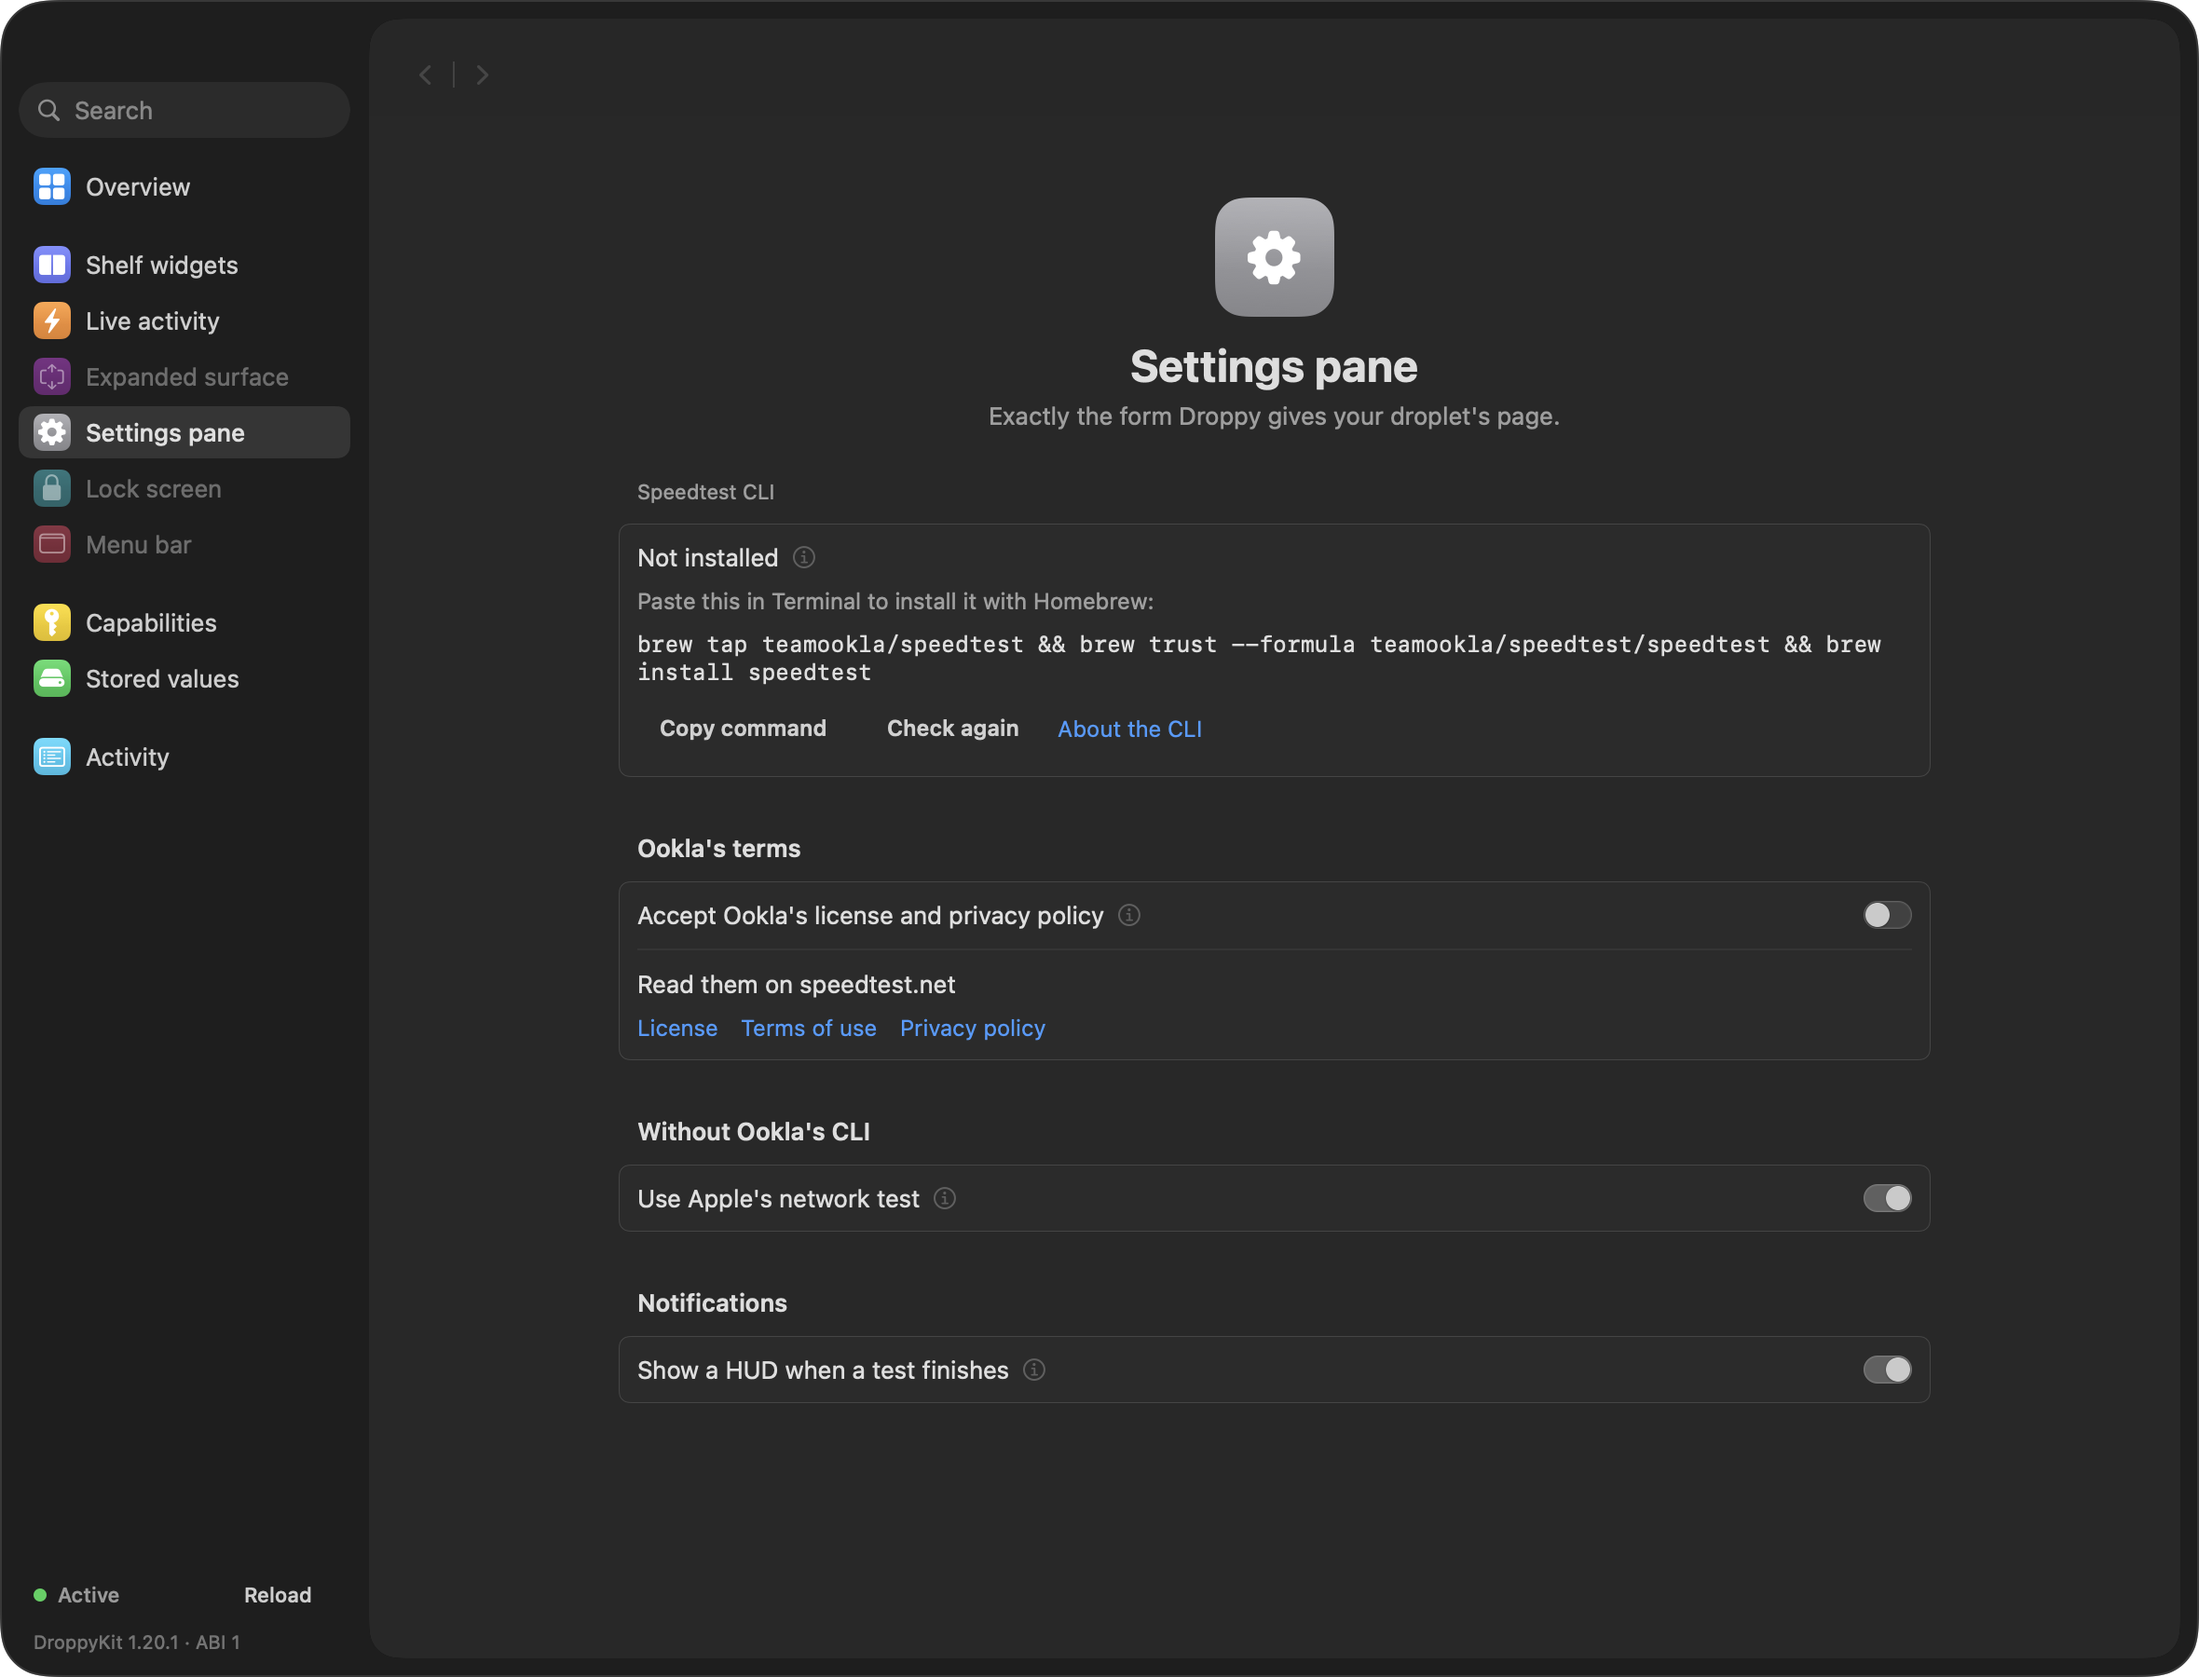
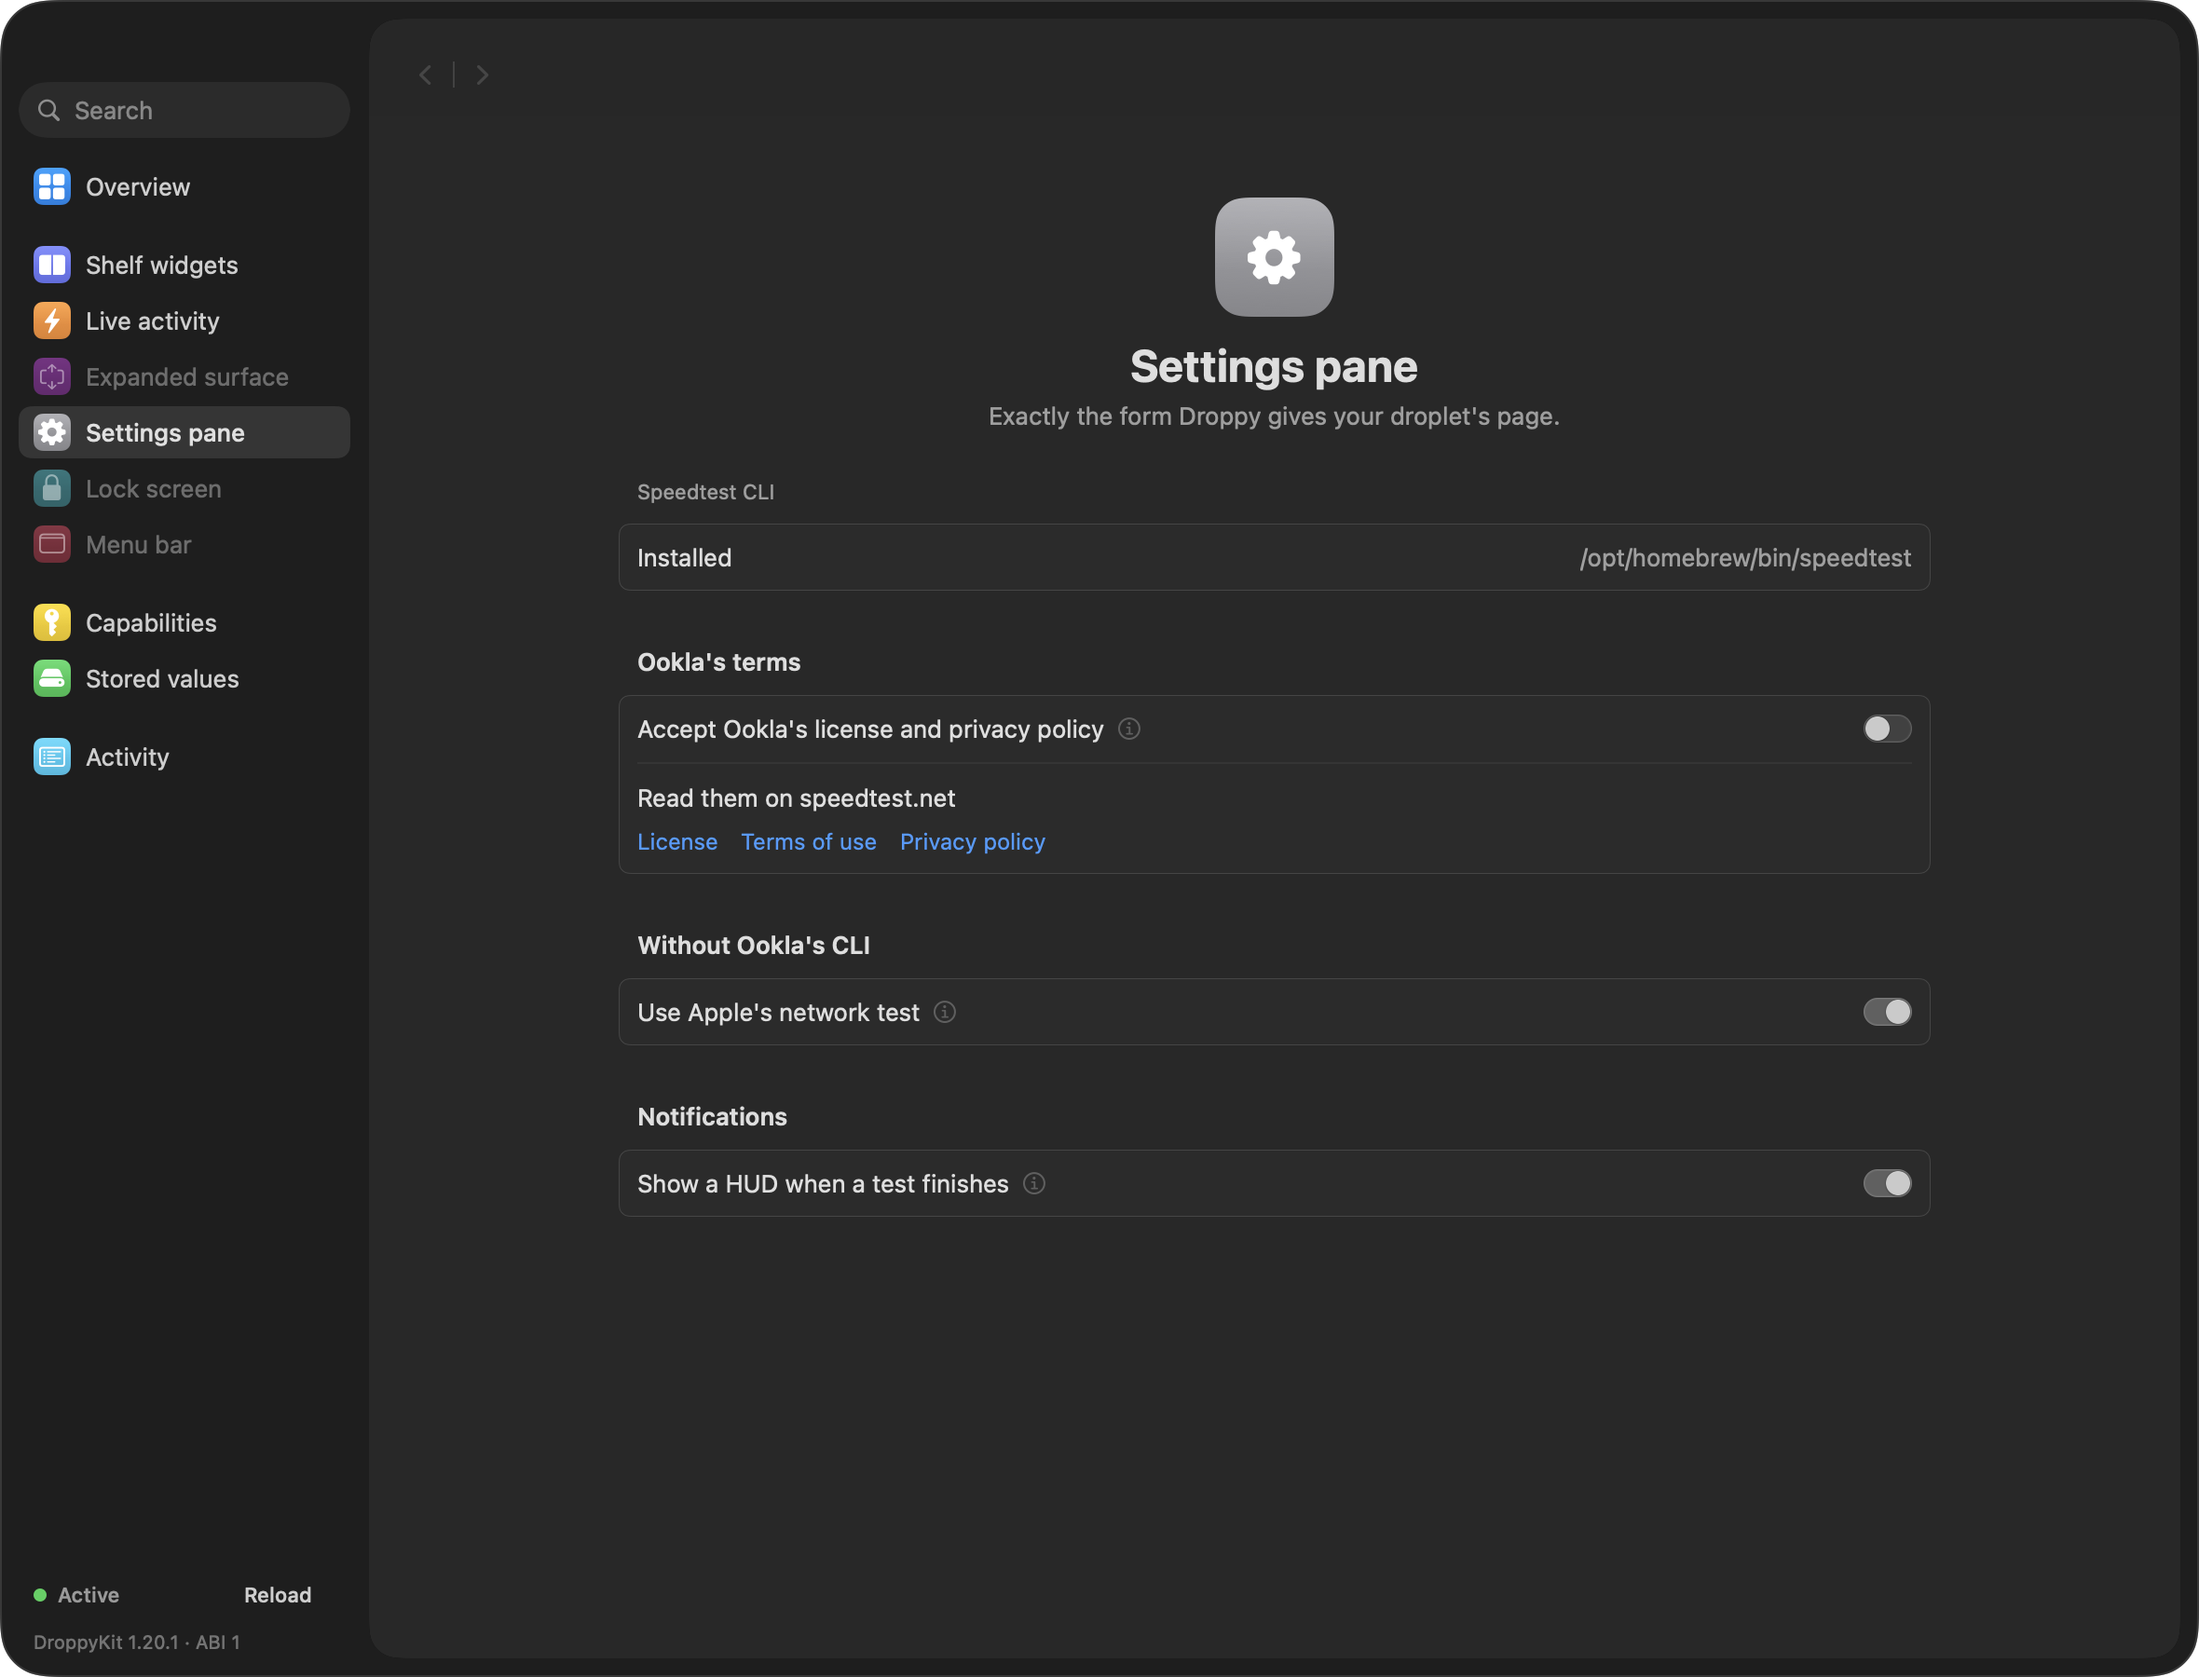
Speedtest: notice a newly installed CLI when the user presses Start
The CLI was only looked up on activation and from 'Check again' in the
settings pane, so after following the widget's setup hint Start kept
running Apple's test until Droppy restarted. Start now re-checks the
usual install paths first; the login-shell lookup stays on activation.

diff --git a/droplets/speedtest/Sources/Speedtest/SpeedtestRunner.swift b/droplets/speedtest/Sources/Speedtest/SpeedtestRunner.swift
@@ -53,8 +53,16 @@ public final class SpeedtestRunner: ObservableObject {
         }
     }
 
-    /// Blocking; call it off the main actor.
-    nonisolated static func locateBinary() -> String? {
+    /// Picks up a CLI installed since the last look, so a user who follows
+    /// the setup hint gets Ookla's test from Start without "Check again".
+    /// Only the usual install paths: cheap enough to run on every Start.
+    func noticeNewlyInstalledCLI() {
+        guard !isCLIAvailable, let path = Self.binaryAtKnownPath() else { return }
+        cliPath = path
+        isCLIAvailable = true
+    }
+
+    nonisolated static func binaryAtKnownPath() -> String? {
         let home = FileManager.default.homeDirectoryForCurrentUser.path
         let candidates = [
             "/opt/homebrew/bin/speedtest",
@@ -62,7 +70,12 @@ public final class SpeedtestRunner: ObservableObject {
             "\(home)/.local/bin/speedtest",
             "\(home)/bin/speedtest",
         ]
-        if let path = candidates.first(where: { FileManager.default.isExecutableFile(atPath: $0) }) {
+        return candidates.first { FileManager.default.isExecutableFile(atPath: $0) }
+    }
+
+    /// Blocking; call it off the main actor.
+    nonisolated static func locateBinary() -> String? {
+        if let path = binaryAtKnownPath() {
             return path
         }
 

diff --git a/droplets/speedtest/Sources/Speedtest/SpeedtestDroplet.swift b/droplets/speedtest/Sources/Speedtest/SpeedtestDroplet.swift
@@ -119,6 +119,7 @@ public final class SpeedtestDroplet: NSObject, ObservableObject, Droplet, HUDPre
     /// its terms accepted, Apple's when the CLI is missing and the fallback is on.
     public func startTest() {
         guard !runner.state.isRunning else { return }
+        runner.noticeNewlyInstalledCLI()
 
         if isHarness {
             beginRun()
